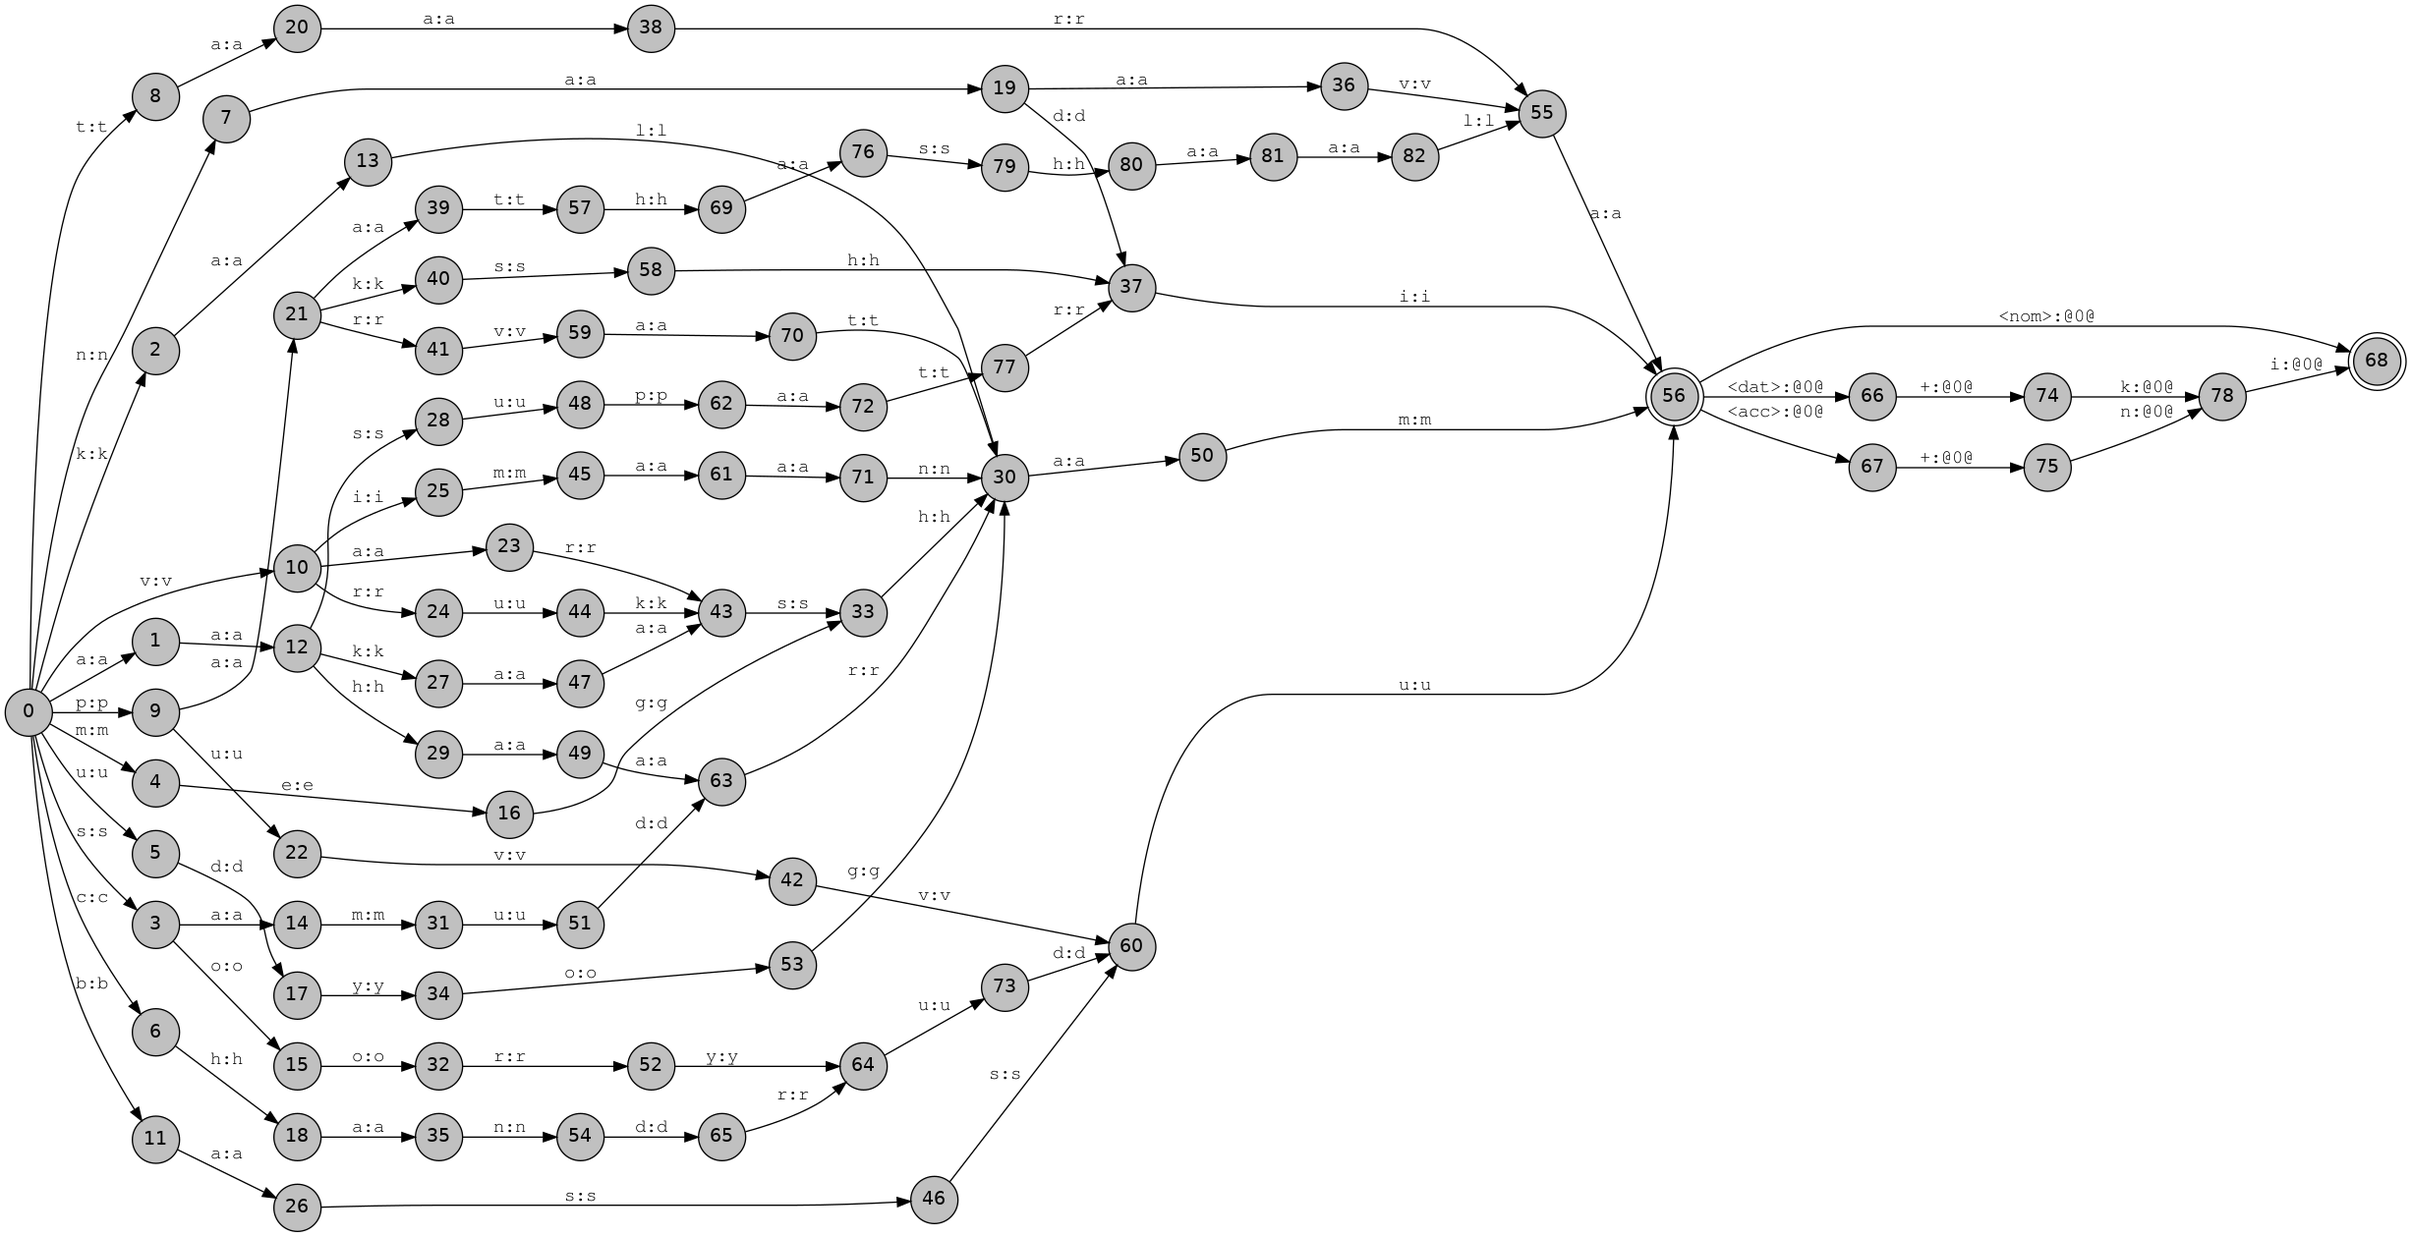
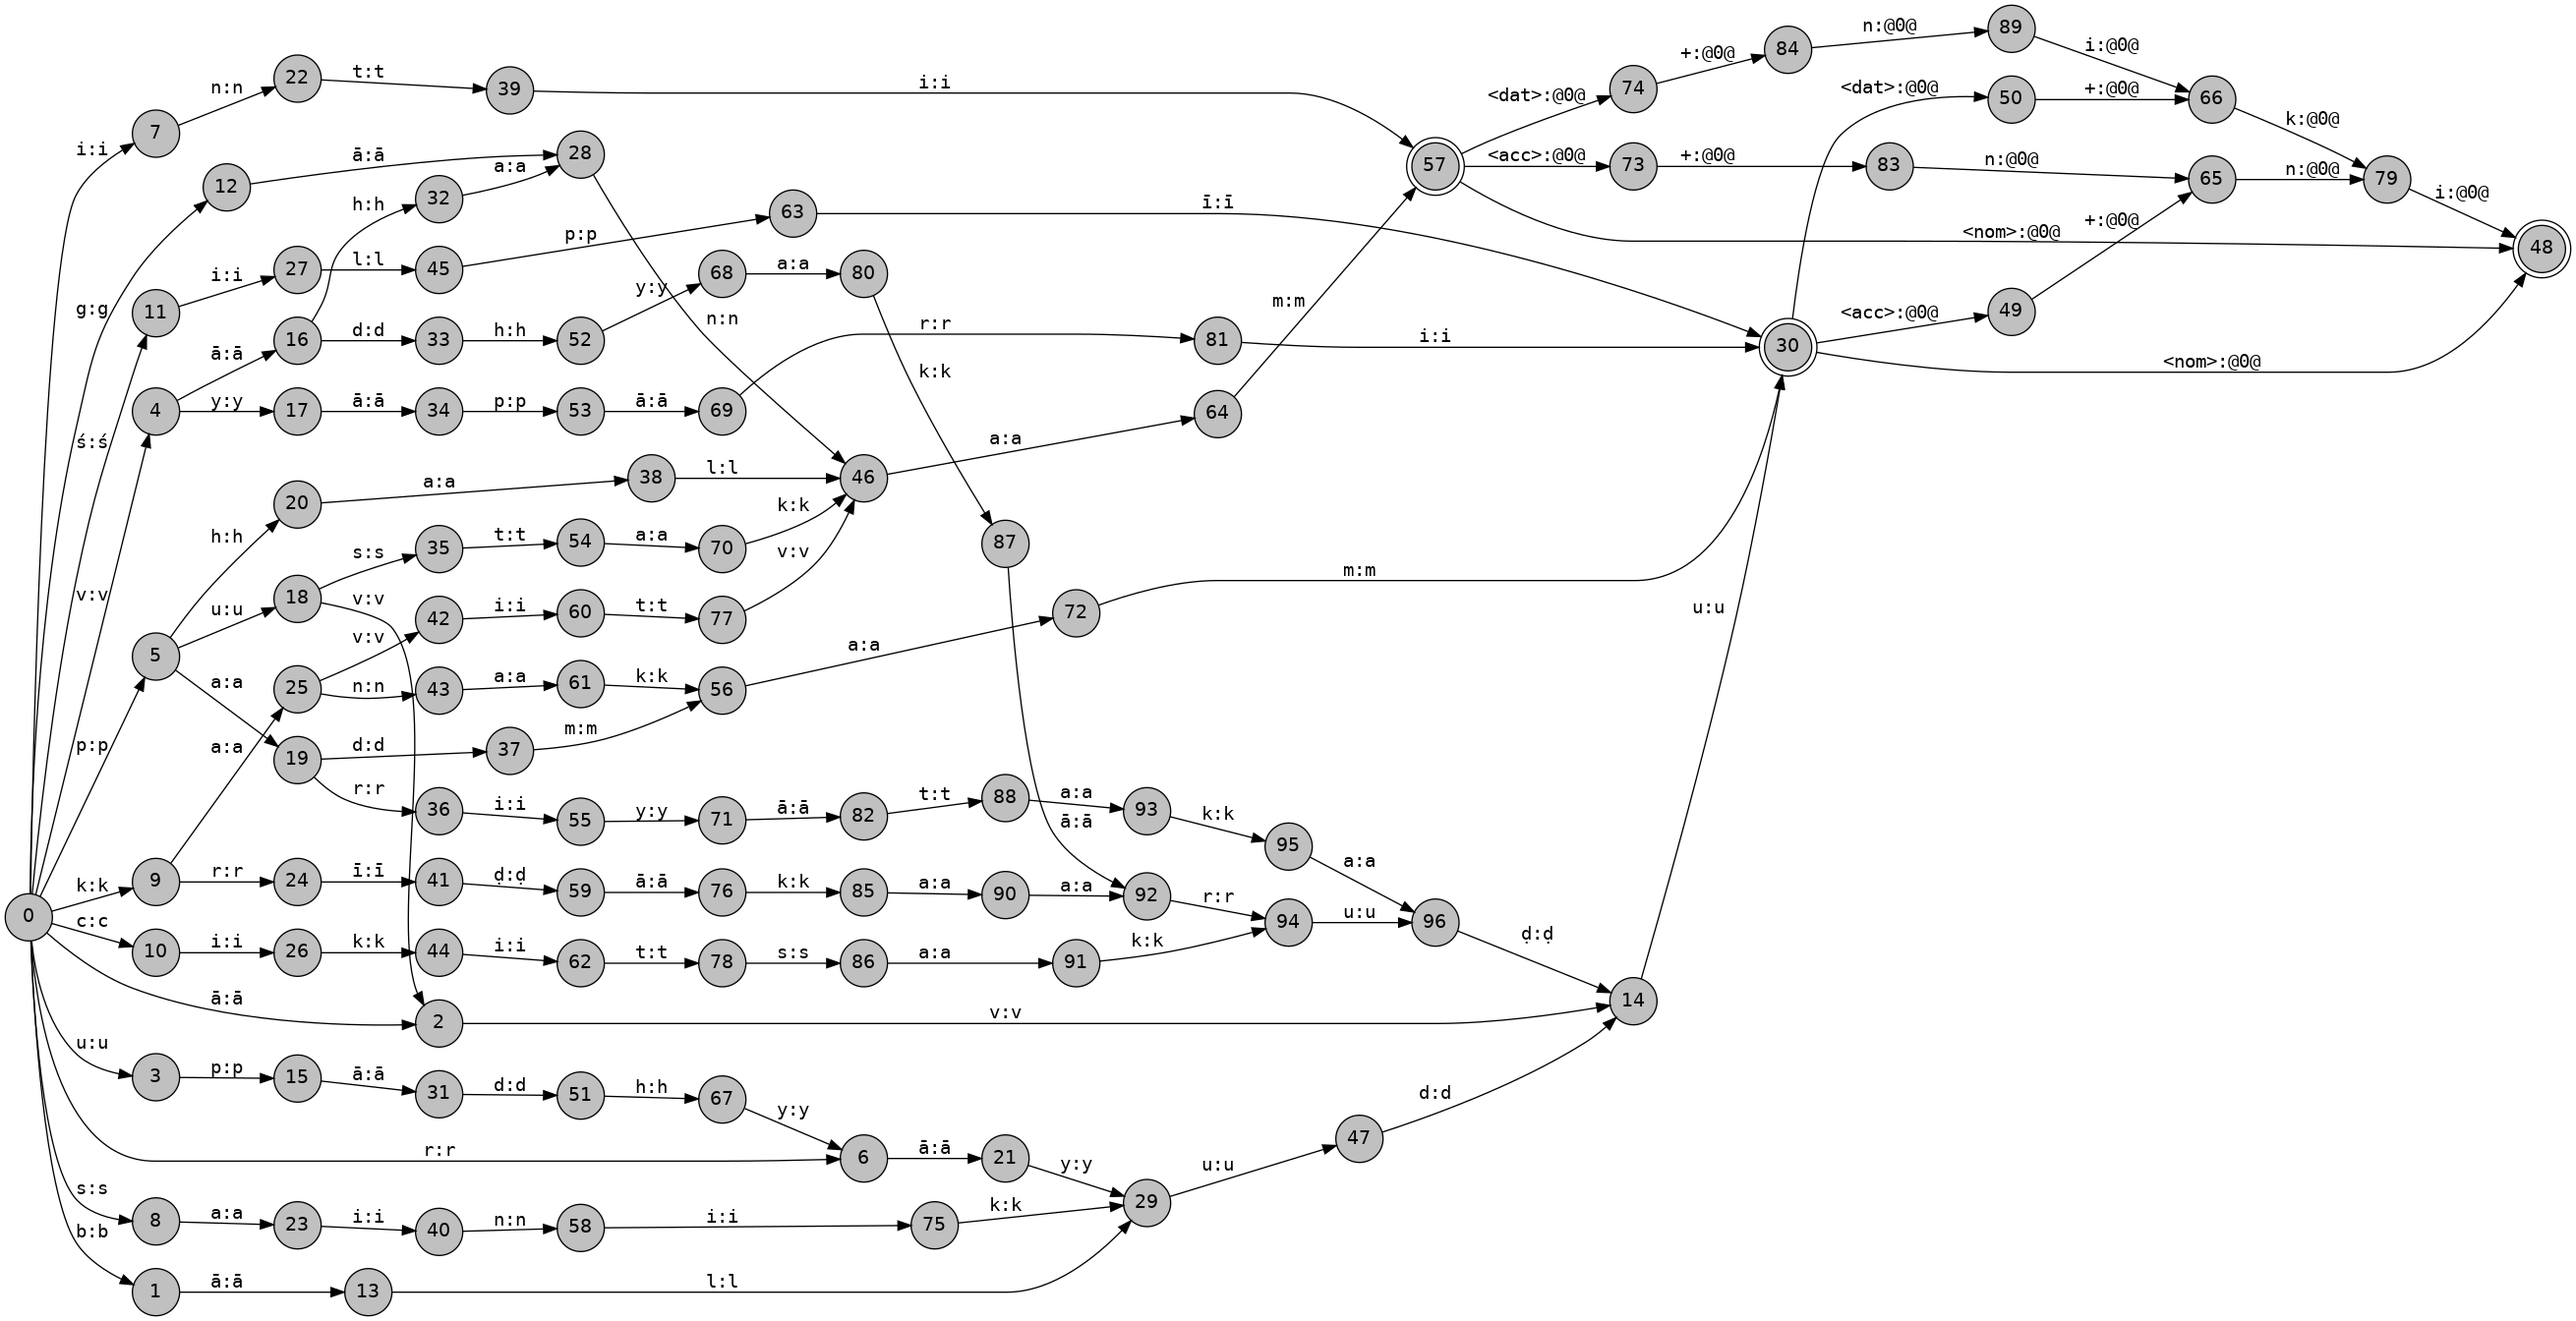
Added for 3 genders- male, female and neutral

diff --git a/02_Morphology/README.md b/02_Morphology/README.md
@@ -1,4 +1,3 @@
-
 # Telugu Noun Morphotactics with HFST
 
 This project involves creating a finite-state transducer (FST) for basic morphotactics of Telugu nouns using the Helsinki Finite-State Technology (HFST) toolkit. It covers the generation of different grammatical cases (nominative, accusative, dative, and genitive) for a set of Telugu nouns.
@@ -9,49 +8,32 @@ The `.lexc` file in this repository defines the morphological rules for 20 Telug
 
 ## Nouns Covered
 
-The following 20 Telugu nouns are included in the `.lexc` file:
+The `.lexc` file includes a set of nouns categorized by gender (masculine, feminine, neuter) and provides rules for generating forms in different grammatical cases. The nouns covered are:
 
-1. ఆకాశం (aakaasham - sky)
-2. సూర్యుడు (sooryudu - sun)
-3. చంద్రుడు (chandrudu - moon)
-4. తార (taara - star)
-5. పువ్వు (puvvu - flower)
-6. వృక్షం (vruksham - tree)
-7. కలం (kalam - pen)
-8. పర్వతం (parvatam - mountain)
-9. నావ (naava - boat)
-10. విమానం (vimaanam - airplane)
-11. బస్సు (bassu - bus)
-12. పక్షి (pakshi - bird)
-13. మేఘం (megham - cloud)
-14. వర్షం (varsham - rain)
-15. నది (nadi - river)
-16. సముద్రం (samudram - ocean)
-17. పాఠశాల (paathashaala - school)
-18. ఆసుపత్రి (aasupatri - hospital)
-19. ఉద్యోగం (udyogam - job)
-20. ఆహారం (aahaaram - food)
+- Masculine Nouns: bāludu (boy), vyāpāri (merchant), sainikudu (soldier), upādhyāyudu (teacher), rāyudu (Raja), krīḍākaaruḍu (athlete), cikitsakuḍu (doctor), śilpī (artist), pariyātakaḍu (tourist), vādhyakāruḍu (musician).
+- Feminine Nouns: āvu (cow), puvvu (flower), padmam (lotus), kanakam (gold).
+- Neuter Nouns: pustakam (book), inti (house), gānam (song), vāhanam (vehicle), phalam (fruit), kavitvam (poetry).
 
 ## File Structure
 
-- `tel.lexc`: Contains the lexical rules for the Telugu nouns.
-
+- `TeluguMorphology_Corrected.lexc`: Contains the lexical rules for the Telugu nouns and their inflections based on gender and case.
 
 ## Compiling the Lexicon
 
-To compile the `.lexc` file into an HFST transducer, run the following command in your terminal:
+To compile the `.lexc` file into an HFST transducer, use the following command:
 
 ```bash
-hfst-lexc tel.lexc -o tel.hfst
+hfst-lexc TeluguMorphology_Corrected.lexc -o tel.hfst
 ```
 
-## Generating The FST 
+## Generating The FST
+
+To visualize the FST, you can convert the compiled file into a graphical representation:
 
 ```bash
-hfst-fst2txt tel.lexc.hfst | python3 att2dot.py  | dot -Tpng -o tel.lexc.png
+hfst-fst2txt tel.hfst | python3 att2dot.py | dot -Tpng -o tel_lexc.png
 ```
 
+This command generates a PNG file consisting of the FST diagram for the Telugu noun forms.
 The above command would be generating a png file which consists of FST diagram:
 ![FST for Telugu noun forms](tel.lexc.png)
-
-
